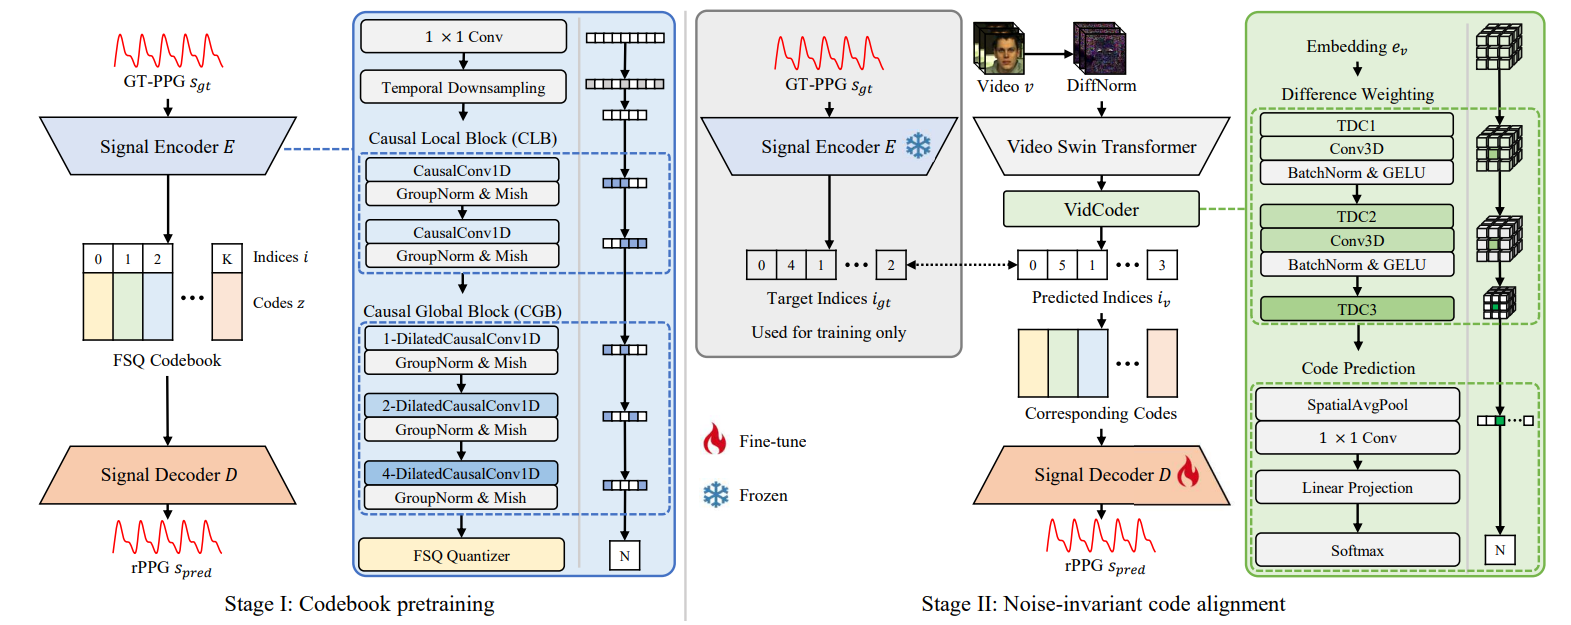
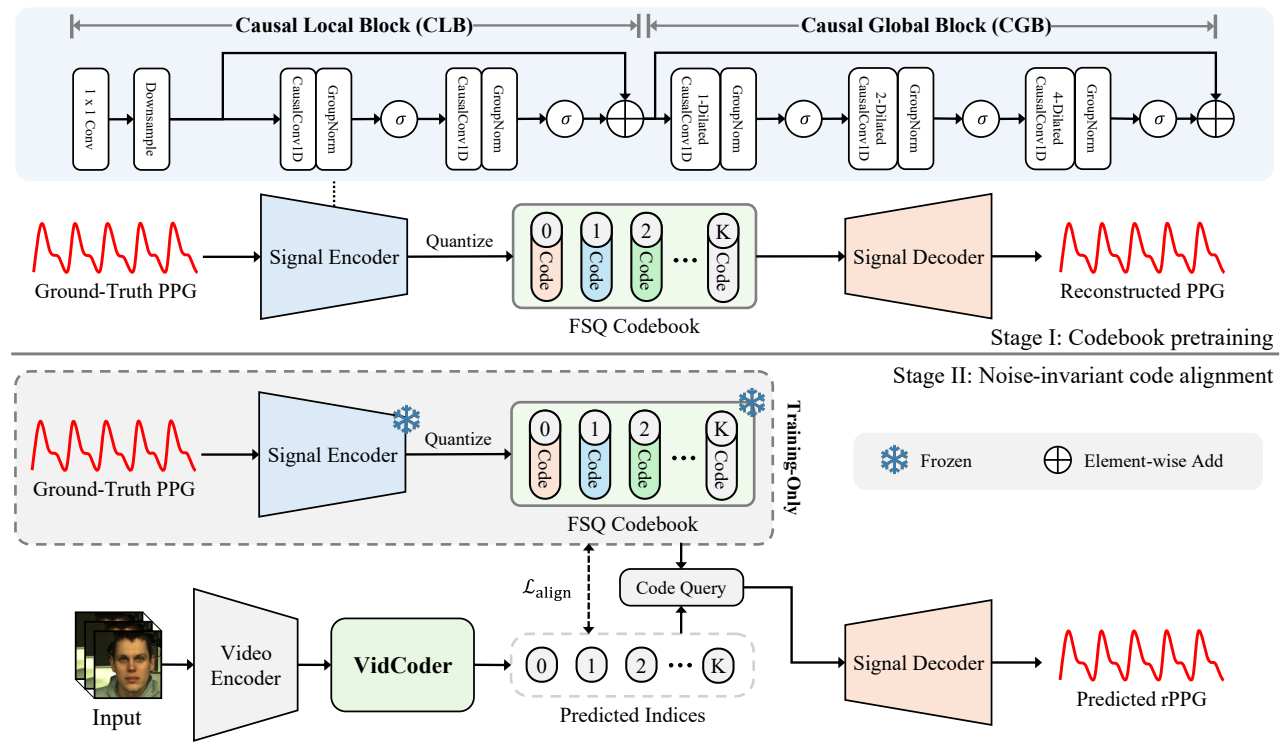
Add thumbnail hover zoom and lightbox; update NiRA to TCSVT
- Publication thumbnails scale up slightly on hover and open full size
  in a lightbox (click backdrop, close button or Esc to dismiss).
- Replace the NiRA figure with the new architecture diagram and move it
  from JBHI to TCSVT (under review).

diff --git a/index.html b/index.html
@@ -46,6 +46,7 @@
       --badge-intl-bg: rgba(147, 112, 219, .9);
       --thumb-bg: #fff;
       --thumb-shadow: 2px 2px 5px rgba(0, 0, 0, .25);
+      --thumb-shadow-hover: 3px 6px 16px rgba(0, 0, 0, .22);
       --award: #b8860b;
       --highlight: #c62828;
     }
@@ -70,6 +71,7 @@
         --badge-bg: #1f4fbf;
         --thumb-bg: #fff;
         --thumb-shadow: 2px 2px 6px rgba(0, 0, 0, .6);
+        --thumb-shadow-hover: 3px 6px 18px rgba(0, 0, 0, .75);
         --award: #d9a441;
         --highlight: #f07171;
       }
@@ -92,6 +94,7 @@
       --badge-bg: #1f4fbf;
       --thumb-bg: #fff;
       --thumb-shadow: 2px 2px 6px rgba(0, 0, 0, .6);
+      --thumb-shadow-hover: 3px 6px 18px rgba(0, 0, 0, .75);
       --award: #d9a441;
       --highlight: #f07171;
     }
@@ -411,6 +414,80 @@
       aspect-ratio: 5 / 3;
       background: var(--thumb-bg);
       box-shadow: var(--thumb-shadow);
+      cursor: zoom-in;
+      transition: transform .18s ease, box-shadow .18s ease;
+    }
+
+    .paper-thumb:hover {
+      transform: scale(1.04);
+      box-shadow: var(--thumb-shadow-hover);
+    }
+
+    /* Lightbox for enlarged publication thumbnails */
+    .lightbox {
+      position: fixed;
+      inset: 0;
+      z-index: 1000;
+      display: none;
+      align-items: center;
+      justify-content: center;
+      padding: 40px 24px;
+      background: rgba(0, 0, 0, .82);
+      cursor: zoom-out;
+    }
+
+    .lightbox.open {
+      display: flex;
+    }
+
+    .lightbox-figure {
+      display: flex;
+      flex-direction: column;
+      align-items: center;
+      gap: 12px;
+      max-width: 100%;
+      max-height: 100%;
+      margin: 0;
+    }
+
+    .lightbox-figure img {
+      width: auto;
+      height: auto;
+      max-width: 100%;
+      max-height: calc(100vh - 140px);
+      padding: 8px;
+      border-radius: 6px;
+      background: #fff;
+      box-shadow: 0 10px 40px rgba(0, 0, 0, .5);
+      cursor: default;
+    }
+
+    .lightbox-caption {
+      max-width: 780px;
+      color: #f1f1f1;
+      font-size: 13px;
+      line-height: 1.5;
+      text-align: center;
+    }
+
+    .lightbox-close {
+      position: absolute;
+      top: 16px;
+      right: 20px;
+      width: 36px;
+      height: 36px;
+      border: none;
+      border-radius: 50%;
+      background: rgba(255, 255, 255, .12);
+      color: #fff;
+      font-size: 20px;
+      line-height: 1;
+      cursor: pointer;
+      transition: background .15s ease;
+    }
+
+    .lightbox-close:hover {
+      background: rgba(255, 255, 255, .25);
     }
 
     .paper-thumb img {
@@ -688,11 +765,11 @@
         </div>
 
         <div class="paper-box">
-          <div class="paper-box-image"><div class="paper-thumb"><div class="badge badge--intl">JBHI 2026</div><img src="images/Nira.png" alt="NiRA"></div></div>
+          <div class="paper-box-image"><div class="paper-thumb"><div class="badge badge--intl">TCSVT 2026</div><img src="images/Nira.png" alt="NiRA"></div></div>
           <div class="paper-box-text">
             <p class="paper-title"><a href="https://arxiv.org/">NiRA: Noise-invariant Causal Discrete Representation Alignment for Video-based Remote Physiological Measurement</a></p>
             <p><b><u>Jun-Hyeok Seo</u></b>, Da-Hee Kim, Jeong-Cheol Lee, Seungyeon Lee, Sangtae Ahn, Dong-Gyu Lee†</p>
-            <p class="paper-venue">IEEE Journal of Biomedical and Health Informatics (JBHI, IF: 6.7), 2026</p>
+            <p class="paper-venue">IEEE Transactions on Circuits and Systems for Video Technology (TCSVT), 2026</p>
             <p><span class="pub-highlight">Under Review</span></p>
           </div>
         </div>
@@ -846,6 +923,15 @@
     </main>
   </div>
 
+  <!-- Lightbox overlay for publication thumbnails -->
+  <div class="lightbox" id="lightbox" role="dialog" aria-modal="true" aria-label="Enlarged publication image">
+    <button class="lightbox-close" type="button" aria-label="Close">&times;</button>
+    <figure class="lightbox-figure">
+      <img id="lightbox-img" src="" alt="">
+      <figcaption class="lightbox-caption" id="lightbox-caption"></figcaption>
+    </figure>
+  </div>
+
   <script>
     function toggleNews(btn) {
       var news = document.getElementById('older-news');
@@ -856,6 +942,44 @@
       var label = btn.querySelector('span');
       if (label) label.textContent = isOpen ? 'Hide older news' : 'Show older news';
     }
+
+    // Publication thumbnails open full size in a lightbox
+    (function () {
+      var box = document.getElementById('lightbox');
+      var boxImg = document.getElementById('lightbox-img');
+      var boxCap = document.getElementById('lightbox-caption');
+
+      function open(img) {
+        var pub = img.closest('.paper-box');
+        var title = pub ? pub.querySelector('.paper-title') : null;
+        boxImg.src = img.currentSrc || img.src;
+        boxImg.alt = img.alt || '';
+        boxCap.textContent = title ? title.textContent.trim() : (img.alt || '');
+        box.classList.add('open');
+        document.body.style.overflow = 'hidden';
+      }
+
+      function close() {
+        box.classList.remove('open');
+        boxImg.src = '';
+        document.body.style.overflow = '';
+      }
+
+      document.addEventListener('click', function (e) {
+        var thumb = e.target.closest('.paper-thumb');
+        if (thumb) open(thumb.querySelector('img'));
+      });
+
+      // Click anywhere on the backdrop (or the close button) dismisses it;
+      // clicks on the enlarged image itself do not.
+      box.addEventListener('click', function (e) {
+        if (e.target !== boxImg) close();
+      });
+
+      document.addEventListener('keydown', function (e) {
+        if (e.key === 'Escape' && box.classList.contains('open')) close();
+      });
+    })();
 
     // Theme toggle. With no explicit choice the page follows the OS setting;
     // clicking pins a theme and remembers it.
